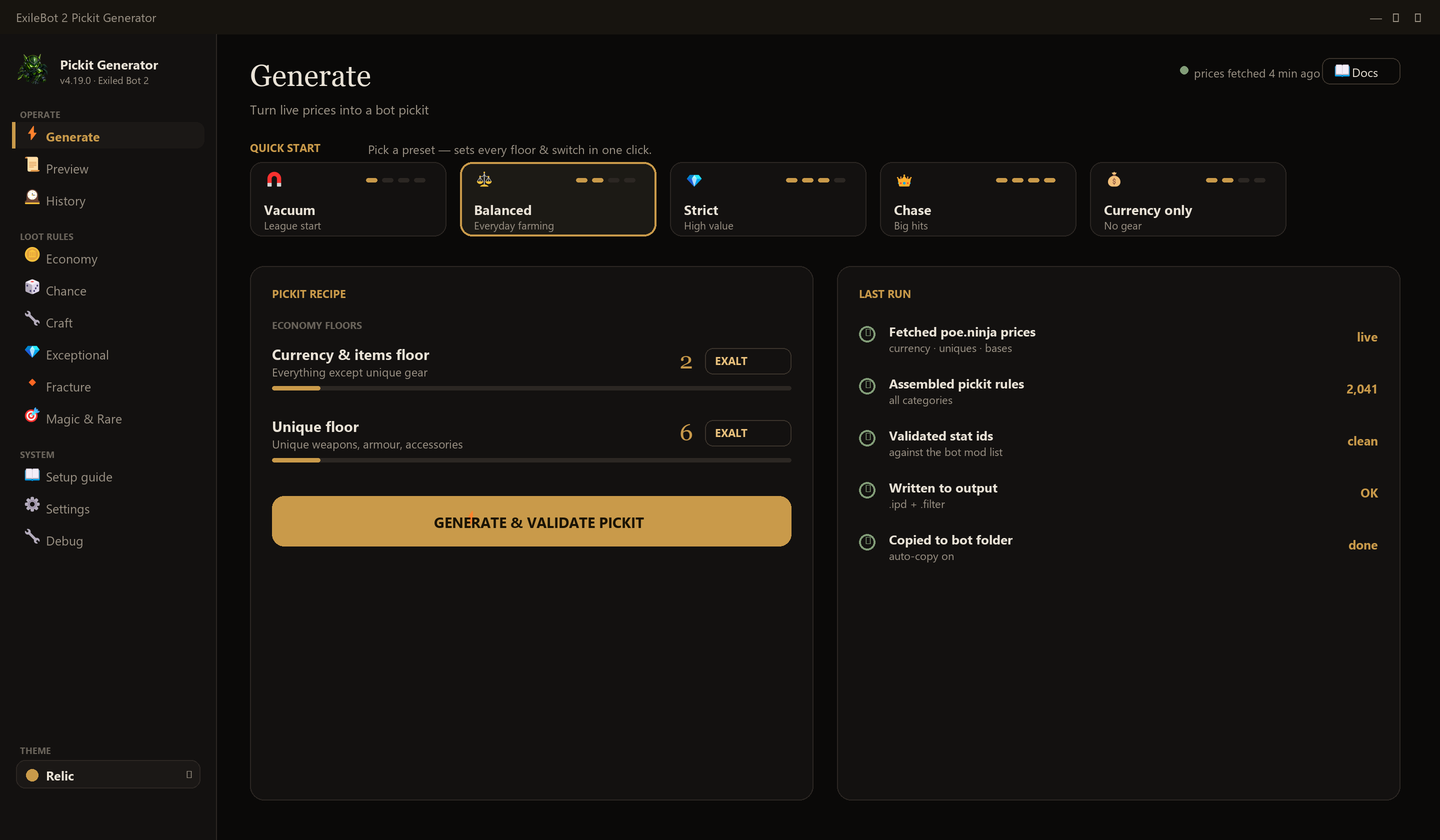
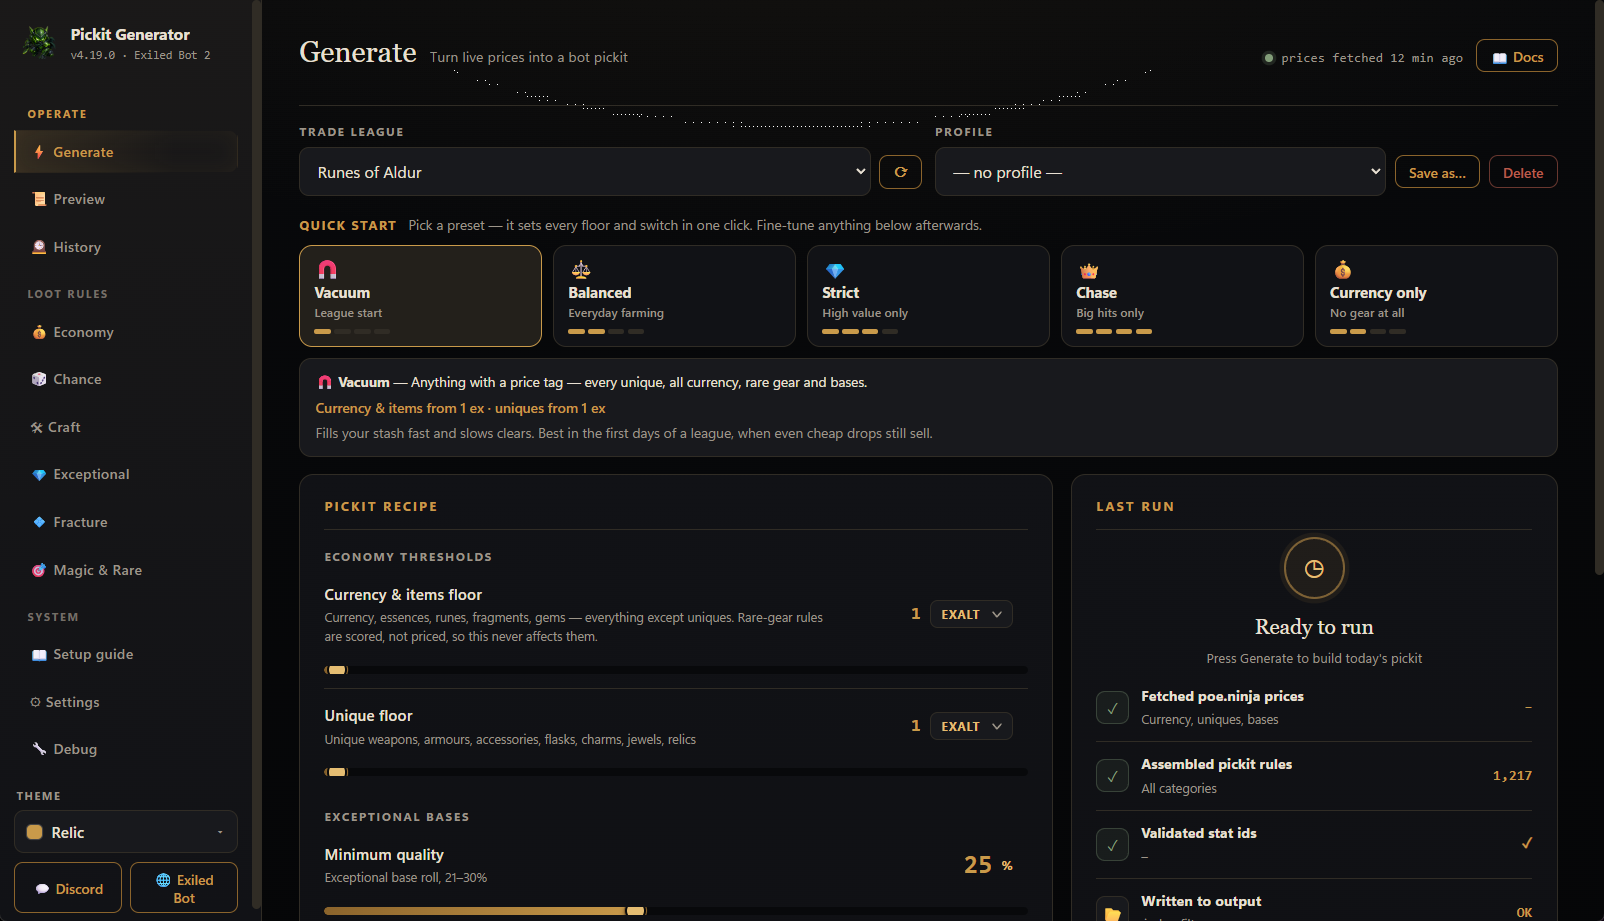
website: use a REAL screenshot, not the mockup I drew
The hero was an image I RENDERED with PIL - a drawing, not a capture. The
numbers in it were invented ("2,041 rules", "5,491 div", "prices fetched 4 min
ago"). Presenting a fabricated image as a product screenshot is misleading, and
the owner caught it.

Replaced with an actual capture of the running app: Generate tab, Relic theme
(what a new user gets on first launch), v4.19.0 - real league, real Quick-start
presets, real value floors, real "Assembled pickit rules: 1,217".

(The app window was minimized to the system tray, which is why the earlier
capture attempts couldn't find it - IsWindowVisible was false. Restored it from
the tray, drove it to the Generate tab with Ctrl+1, and captured the client
area so no desktop bleeds in.)

diff --git a/docs/index.html b/docs/index.html
@@ -244,7 +244,7 @@ footer{border-top:1px solid var(--line);padding:54px 0;text-align:center;color:v
     <span>🌐 poe.ninja prices</span><i>→</i><span>⚔️ your floors</span><i>→</i><span>📄 .ipd pickit</span><i>→</i><span>🤖 your bot</span>
   </div>
   <div class="shotwrap">
-    <img class="shot" src="screenshot.png" width="1440" height="840" alt="The Generate console: live prices, value floors, and the last run's status">
+    <img class="shot" src="screenshot.png" width="1604" height="921" alt="The Generate tab: the Quick start presets, the two value floors, and the last run's status">
   </div>
 </div></header>
 